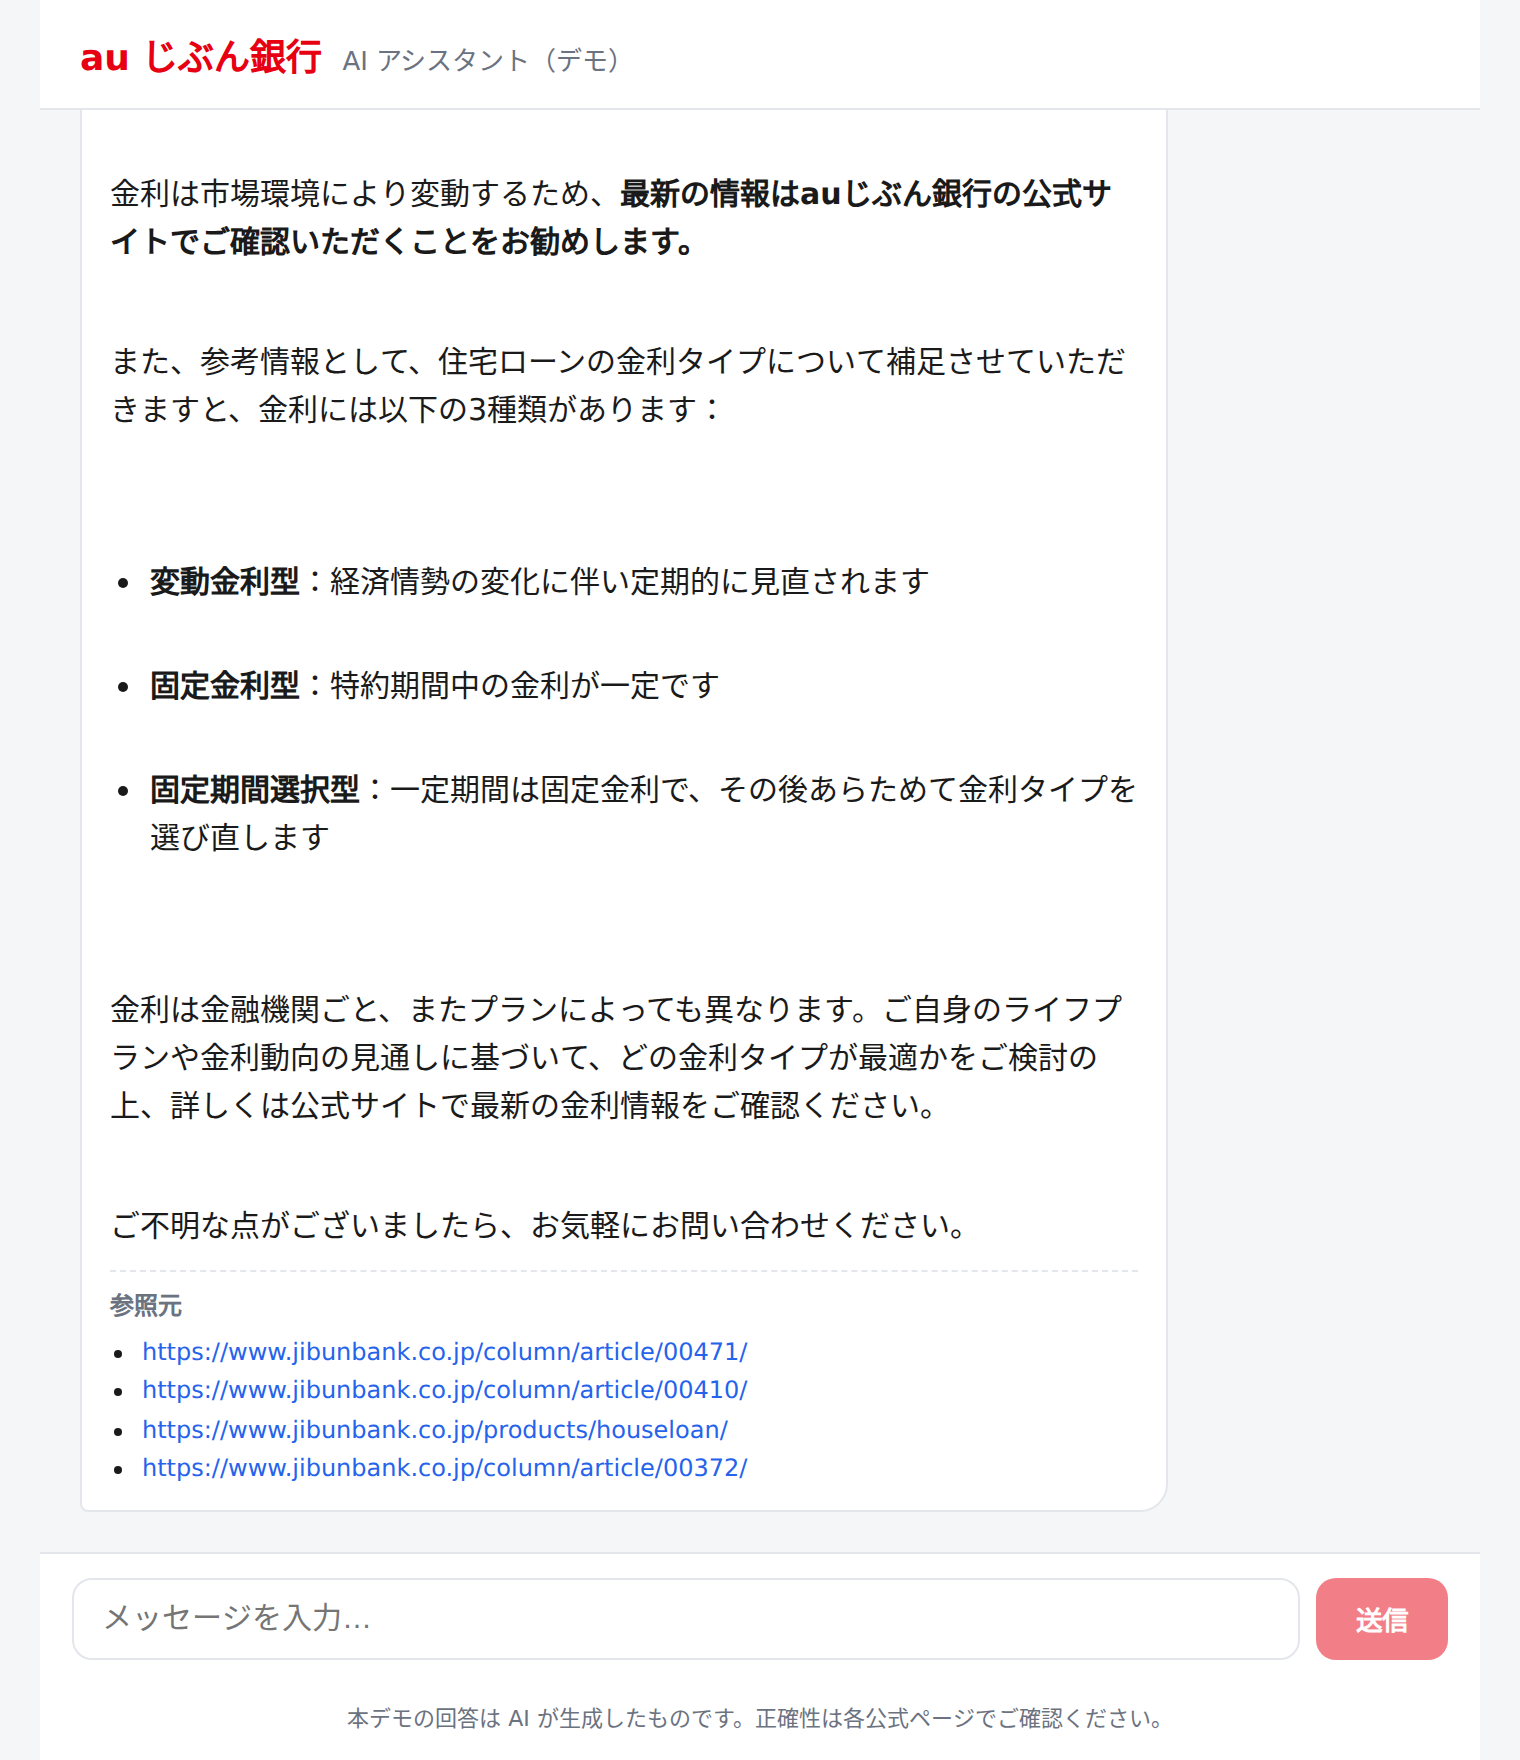
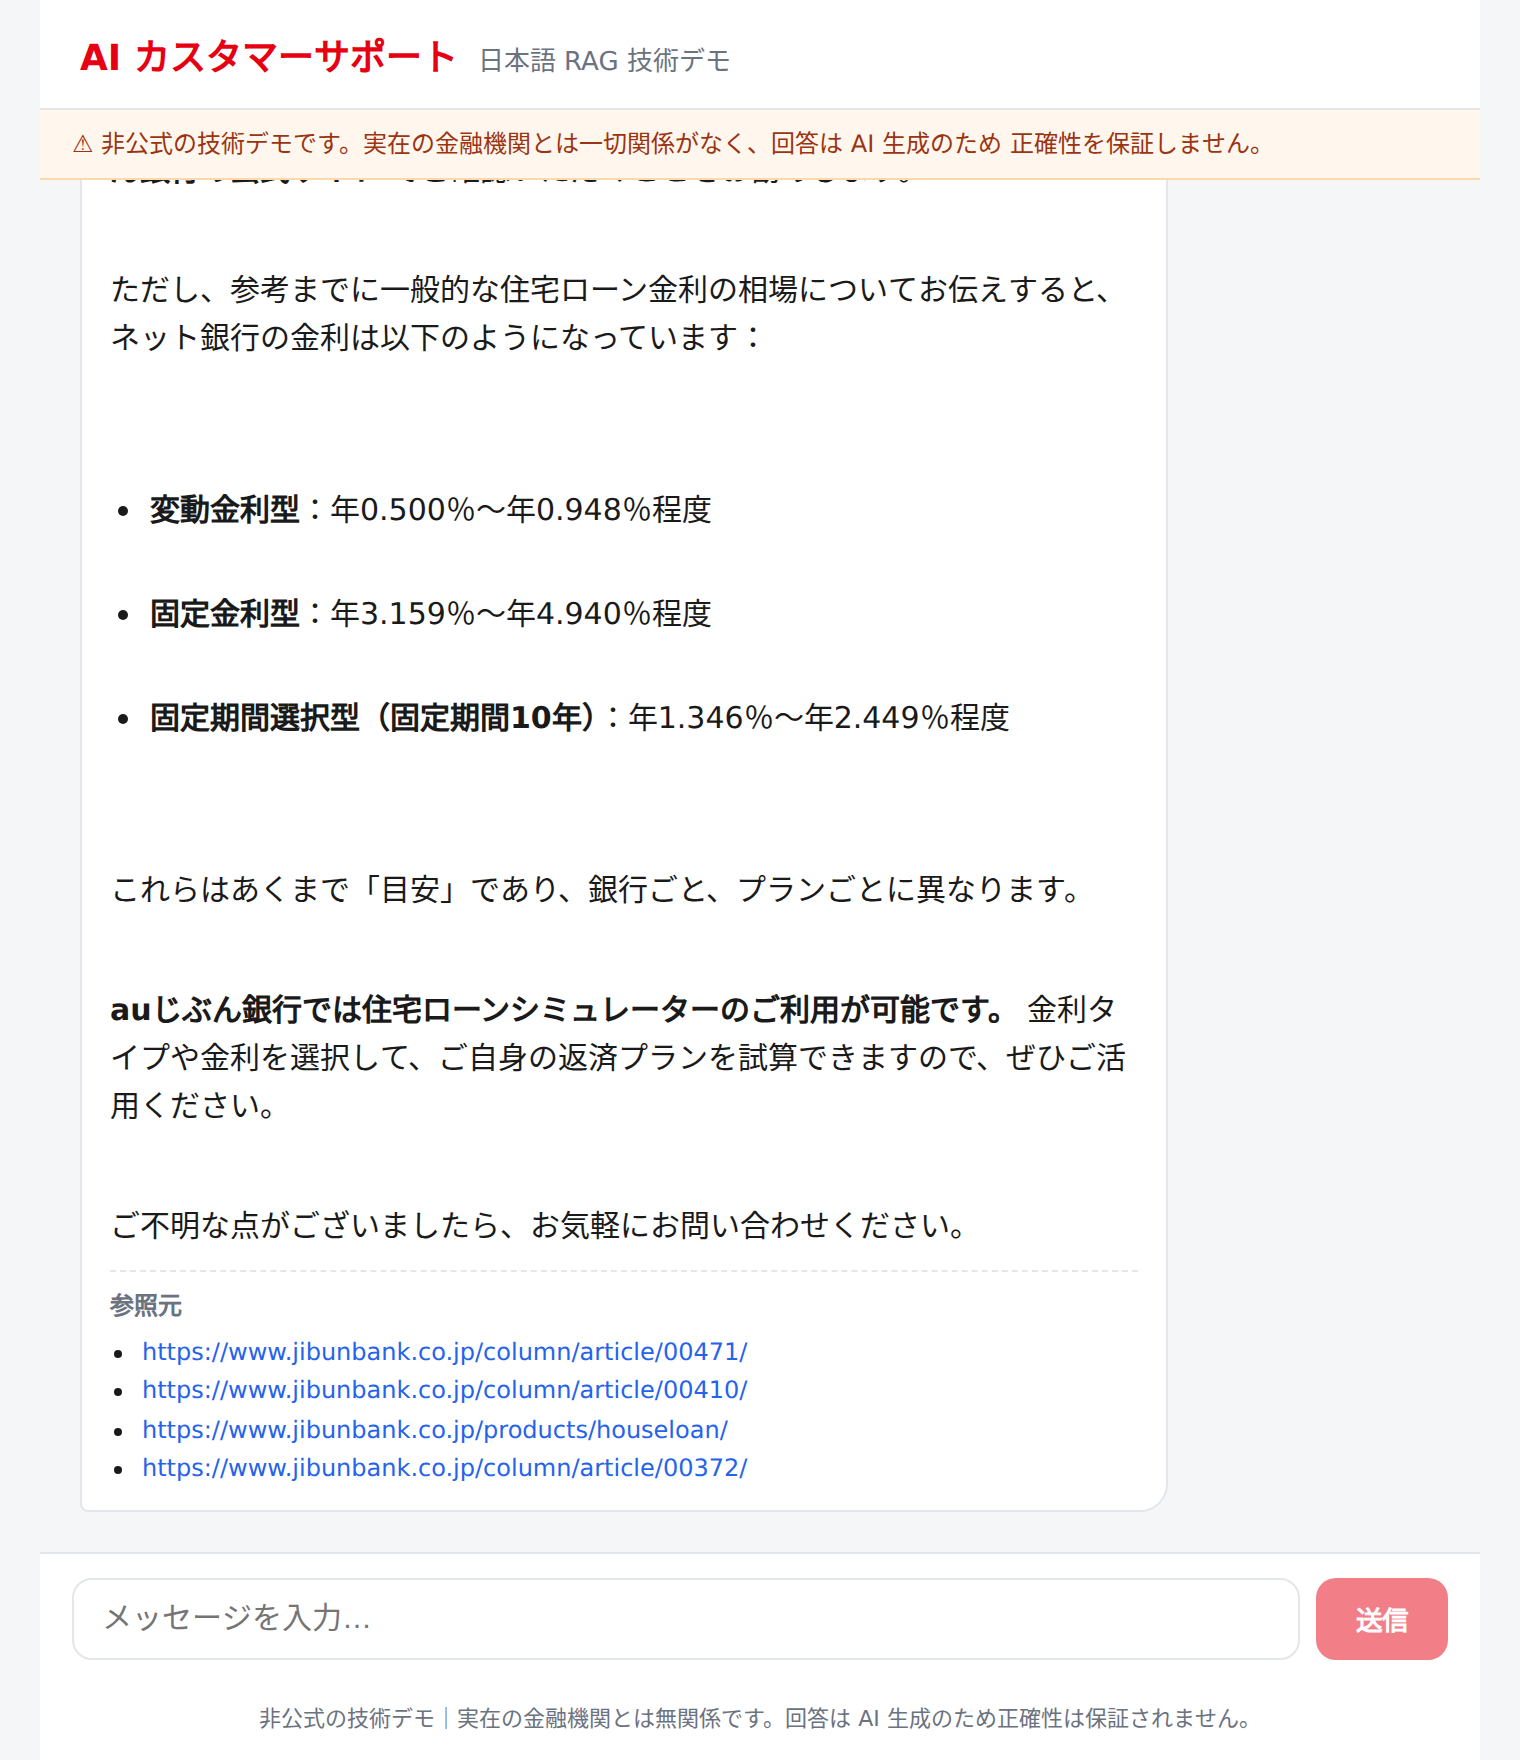
docs: add unofficial-demo disclaimer (brand/IP posture)
Make clear this is an independent, unofficial technical demo not affiliated
with or endorsed by au Jibun Bank / KDDI, so showing the portfolio to third
parties doesn't read as unauthorized use of a real bank's brand:

- PROJECT.md: prominent JP+EN disclaimer; neutral project title.
- chat-ui: neutral header ("AI カスタマーサポート"), a persistent non-affiliation
  notice banner, and an updated footer — both visible in the demo media.
- chat-ui/README.md: short disclaimer + link.
- docs/demo/*: re-captured GIF/screenshots showing the disclaimer.

Note: a disclaimer reduces but does not fully eliminate trademark/copyright
exposure; full removal would require anonymizing the source content (deferred
per the chosen approach).

Claude-Session: https://claude.ai/code/session_01GCMoRKBbmPcig9EZiGGQR4

diff --git a/chat-ui/src/App.tsx b/chat-ui/src/App.tsx
@@ -58,9 +58,14 @@ export function App() {
   return (
     <div className="app">
       <header className="header">
-        <div className="brand">au じぶん銀行</div>
-        <div className="subtitle">AI アシスタント（デモ）</div>
+        <div className="brand">AI カスタマーサポート</div>
+        <div className="subtitle">日本語 RAG 技術デモ</div>
       </header>
+
+      <div className="notice" role="note">
+        ⚠️ 非公式の技術デモです。実在の金融機関とは一切関係がなく、回答は AI 生成のため
+        正確性を保証しません。
+      </div>
 
       <div className="messages" ref={scrollRef}>
         {messages.length === 0 && (
@@ -131,7 +136,7 @@ export function App() {
         </button>
       </form>
       <footer className="disclaimer">
-        本デモの回答は AI が生成したものです。正確性は各公式ページでご確認ください。
+        非公式の技術デモ｜実在の金融機関とは無関係です。回答は AI 生成のため正確性は保証されません。
       </footer>
     </div>
   );

diff --git a/chat-ui/src/styles.css b/chat-ui/src/styles.css
@@ -48,6 +48,15 @@ body {
   font-size: 13px;
 }
 
+.notice {
+  background: #fff7ed;
+  color: #9a3412;
+  border-bottom: 1px solid #fed7aa;
+  padding: 8px 16px;
+  font-size: 12px;
+  line-height: 1.5;
+}
+
 .messages {
   flex: 1;
   overflow-y: auto;

diff --git a/PROJECT.md b/PROJECT.md
@@ -1,12 +1,26 @@
-# au じぶん銀行 AI エージェント
+# 日本語音声 RAG カスタマーサポート AI エージェント（技術デモ）
 
 Amazon Connect ベースの**日本語音声 RAG カスタマーサポート**と、その**顧客向け Web チャット版**。
-電話・チャットの問い合わせを、じぶん銀行の公開情報（~130,000 チャンク）に基づき
-Claude が回答し、答えられない場合は人間オペレーターへエスカレーションします。
+電話・チャットの問い合わせを、公開ウェブ情報（~130,000 チャンク）に基づき Claude が回答し、
+答えられない場合は人間オペレーターへエスカレーションします。
 
-> このリポジトリは AI-DLC（AI-Driven Development Life Cycle）ワークフローで構築した
-> 実装です。本ファイルはプロジェクト（成果物）の概要、ルート `README.md` は AI-DLC
-> フレームワーク自体の説明です。
+> ## ⚠️ 免責事項 / Disclaimer
+>
+> 本リポジトリは **個人が技術検証目的で作成した非公式のデモ**です。
+> 題材として実在金融機関のサービス名・公開ウェブ情報を参照していますが、
+> **「au じぶん銀行」および KDDI / auフィナンシャルグループとは一切関係がなく、
+> 同行が許諾・推奨・関与するものではありません。** 各種名称・ロゴ等は各権利者の商標です。
+> 取り込んだ公開情報は**非営利の技術デモ目的のみ**で使用しており、回答は AI 生成のため
+> 正確性を保証しません。実際の商品情報は各社公式サイトをご確認ください。
+>
+> This is an **independent, unofficial technical demo / portfolio project**. It is
+> **not affiliated with, authorized, or endorsed by au Jibun Bank or KDDI**. All
+> names and marks belong to their respective owners; public content is used only
+> for a non-commercial demonstration and AI-generated answers may be inaccurate.
+
+_補足: このリポジトリは AI-DLC（AI-Driven Development Life Cycle）ワークフローで構築した
+実装です。本ファイルはプロジェクト（成果物）の概要、ルート `README.md` は AI-DLC
+フレームワーク自体の説明です。_
 
 ## デモ（Web チャット）
 

diff --git a/chat-ui/README.md b/chat-ui/README.md
@@ -1,8 +1,11 @@
-# au じぶん銀行 AI アシスタント — チャット UI (U-08)
+# AI カスタマーサポート チャット UI (U-08)
 
 Connect 音声経路の顧客向け Web 版。U-08 chat-api（Lambda Function URL, SSE
 ストリーミング）に接続し、RAG の回答をトークン逐次で表示するデモ用チャット
 SPA です。
+
+> ⚠️ 非公式の技術デモです。実在の金融機関とは一切関係がありません。詳細は
+> リポジトリルートの [PROJECT.md](../PROJECT.md) の免責事項を参照してください。
 
 ## セットアップ
 